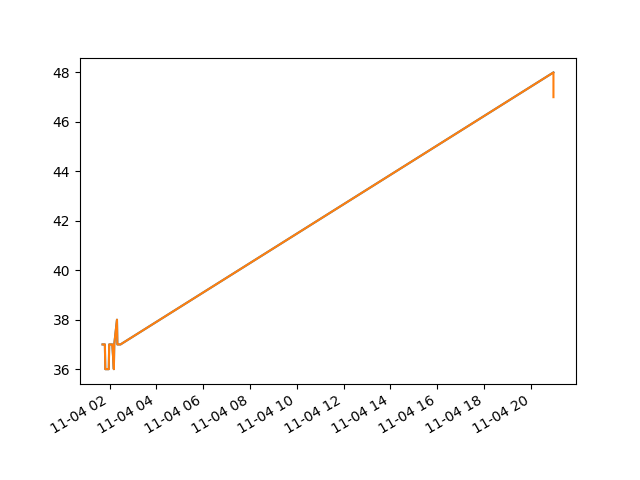
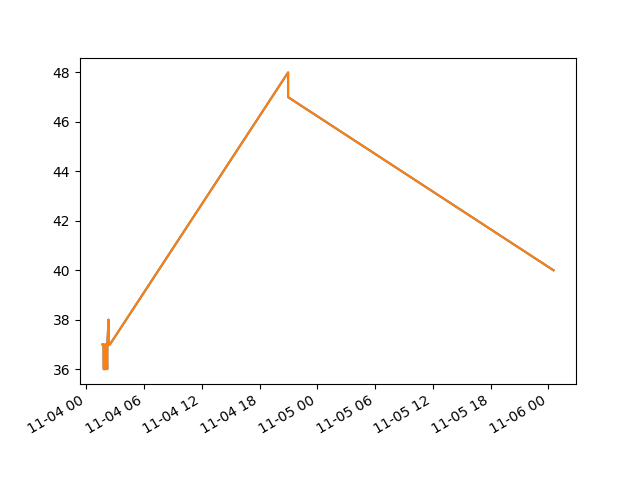
Final Commit Done.

diff --git a/app/templates/index.html b/app/templates/index.html
@@ -1,8 +1,8 @@
 {% extends "base.html" %}
 
 {% block content %}
-	<div><h3>Time to Home :</h3>{{time_to_home}}  mins</div>
-	<div class="d-flex justify-content-center"><img src="\static\temp.png" class="img-fluid" alt="Graph for Time" width="750" height="500"/></div>
+	<div><h3>Time to Home</div>
+	<div class="d-flex justify-content-center"></div>
 	
 	<!-- <div>{{tbl}}</div> -->
 {% endblock %}

diff --git a/app/templates/base.html b/app/templates/base.html
@@ -2,6 +2,7 @@
 <head>
 	<title>{{title}}</title>
 	<link rel="stylesheet" href="https://maxcdn.bootstrapcdn.com/bootstrap/4.0.0-beta.2/css/bootstrap.min.css" integrity="sha384-PsH8R72JQ3SOdhVi3uxftmaW6Vc51MKb0q5P2rRUpPvrszuE4W1povHYgTpBfshb" crossorigin="anonymous">
+	
 </head>
 <body>
 	

diff --git a/app/routes.py b/app/routes.py
@@ -8,20 +8,22 @@ import datetime
 import re
 import matplotlib.pyplot as plt
 from pandas import Series
+import pandas as pd
 
 gmaps=googlemaps.Client(retry_timeout=10,queries_per_second=1,key='AIzaSyATnjodbtNL-CUZhl2oWcJhSR1_2-KzvSA')
 
 @app.route('/')
 @app.route('/index')
 def index():
+	return render_template('index.html',title='Home',time_to_home=final_time)
+
+@app.route('/chart')
+def chart():
 	nw = datetime.datetime.now()
-	nw1 = nw.strftime('%Y-%m-%d %H:%M')
+	nw1 = nw.strftime('%Y,%m,%d,%H,%M')
 	direc_result = gmaps.directions('SU Block Market, SU Block, Pitampura, Delhi','Bulding no 14,Cybercity, Gurgaon',mode='driving',departure_time=nw)
 	final_time=re.sub('mins','',direc_result[0]['legs'][0]['duration_in_traffic']['text'])
 	with open("time.csv","a") as fo:
 		fo.write(nw1+","+final_time+"\n")
-	# txt_for_graph = np.loadcsv("time.txt")
-	series = Series.from_csv("time.csv",infer_datetime_format=True)
-	series.plot()
-	plt.savefig("D:\\PythonFlask\\app\static\\temp.png")
-	return render_template('index.html',title='Home',time_to_home=final_time)
+	dic = pd.read_csv('time.csv',delimiter=",")
+	return render_template('chart.html',dict=dic)
